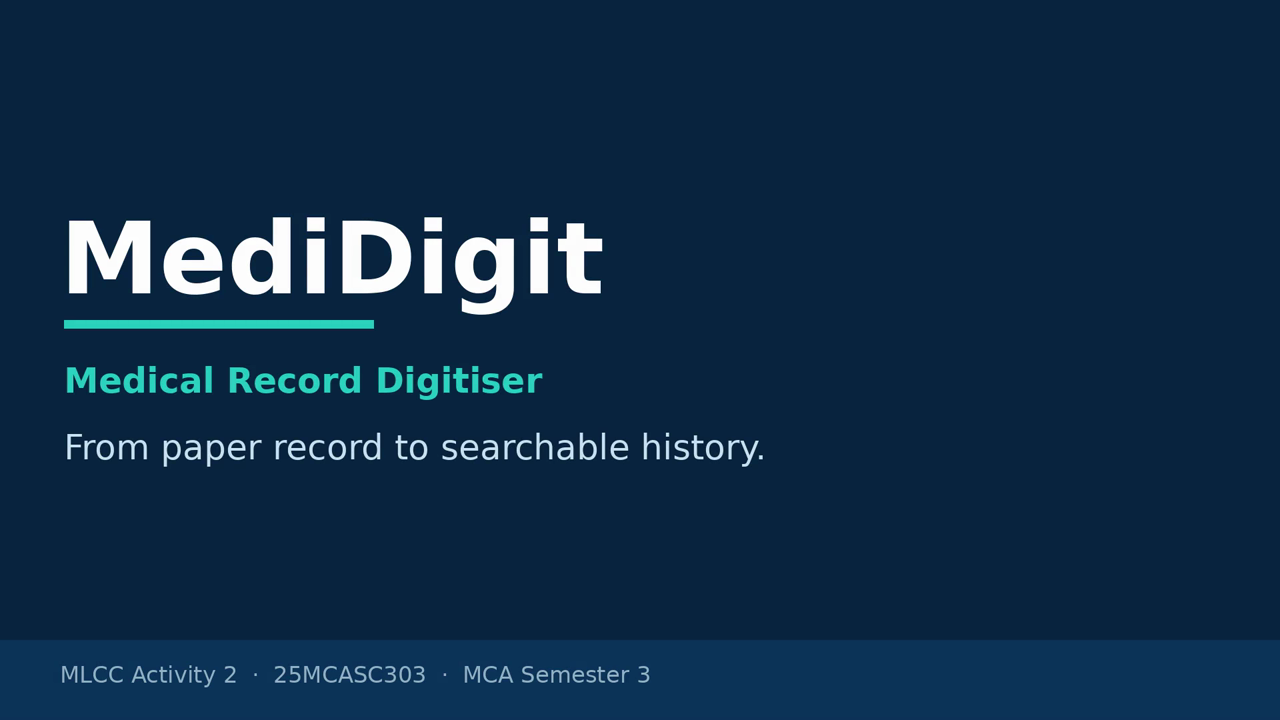
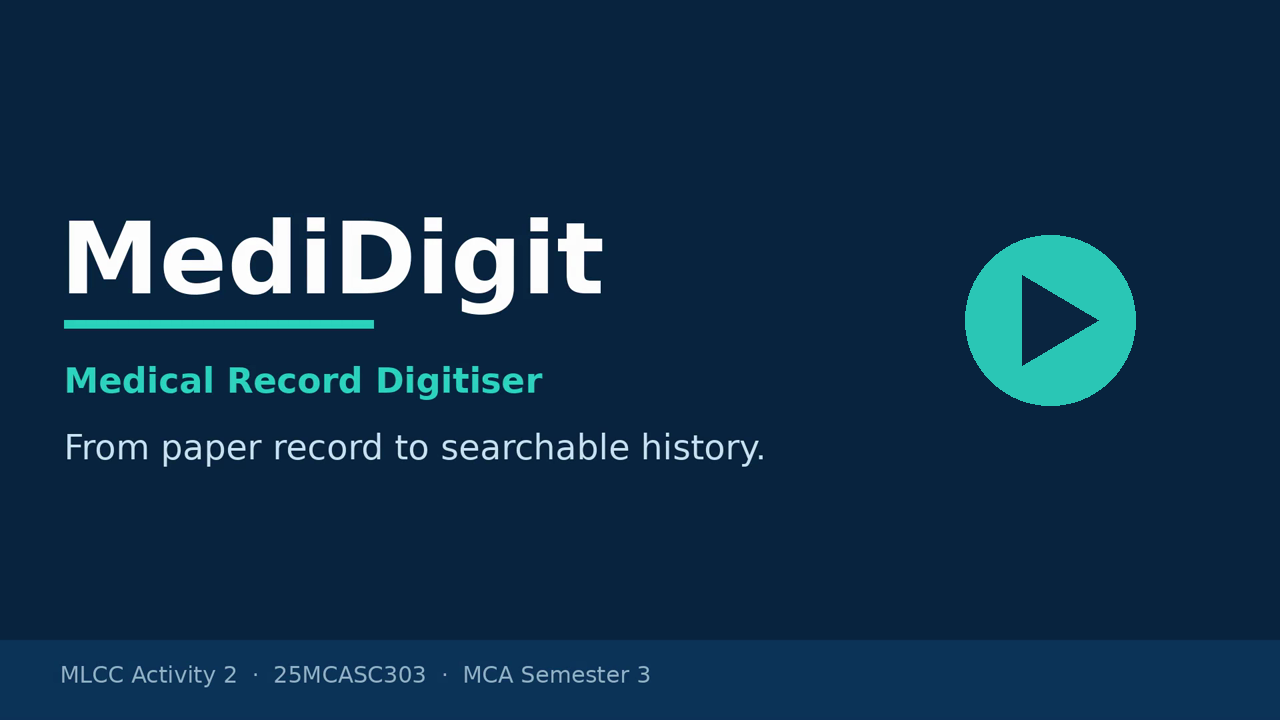
Use linked thumbnail for video preview, GitHub strips video tags

Changed region(s): [[0.75, 0.3056, 0.9062, 0.5806]]

diff --git a/README.md b/README.md
@@ -25,7 +25,7 @@ and extraction only, not for clinical use.
 
 ## Video
 
-<video src="https://raw.githubusercontent.com/MediDigit/MediDigit/main/MediDigit-Explainer.mp4" poster="video-thumbnail.png" controls width="100%"></video>
+[![MediDigit explainer video — click to play](video-thumbnail.png)](MediDigit-Explainer.mp4)
 
 64-second narrated walkthrough: the problem, the pipeline, and the
 results. Also available as [`MediDigit-Explainer.mp4`](MediDigit-Explainer.mp4).
